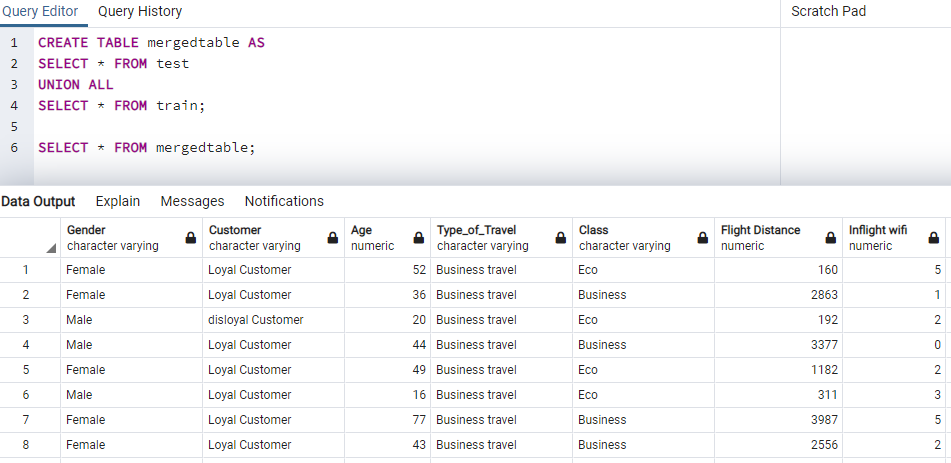
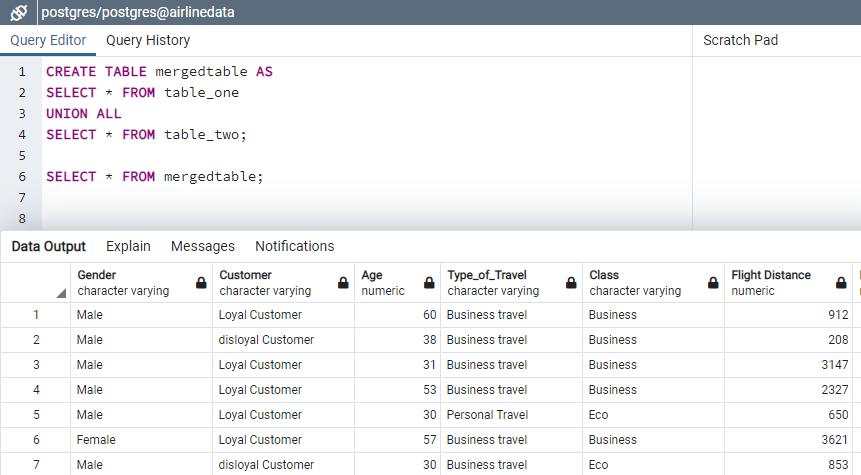
commit on "Sungil"

Changed region(s): [[0.0, 0.3629, 1.0, 0.9978], [0.0, 0.0, 1.0, 0.3326], [0.3926, 0.9676, 0.4228, 0.9978]]

diff --git a/README.md b/README.md
@@ -11,11 +11,36 @@ Increasing customer satisfaction is a key element for modern businesses  because
 * It is know if a new customer can be satisfied or not, basing on his  personnal information such as : gender, age, type of travel ... ?
 * How we can improve the machine learning classification technique to understand the key features that correlate to the variable which is being predicted.
 
-## Role : X Role
+## Role : 
+**In week 1: X Role**
+
 The X role will focus on the technology side of the project and provide which tools and what moduls are the best fit for the team project? All of the technology components play a large part in project efficacy, so knowing them beforehand helps smooth the workflow. The details of technologe we will use is issustrated in the following section.
 
 ## Technology we used
 The detail technology we used is in the link
 ![technology.md](technology.md)
 
+**In week 2: CIRCLE Role**
 
+ We used Amazon simple stoage service (S3) to store two csv files for airplane service satification data. We then used Spark in Google Colab to preprocess, clean the data and upload data to postgresql. This SQL databae is linked relational database (RDS) on the cloud Amazon Web Services (AWS).
+ Herein we unioned two tables using pgadmin4 and use the merged file to run a machine learning program, SciKitLearn, in Pandas. 
+ The sql quary file to union two tables is displayed in the following link.
+
+https://github.com/Subodh2044/Final_Project/blob/Week2/Database/union_and_createtable.sql
+
+## Data source: US Airline passenger satisfaction survey
+Source : https://www.kaggle.com/teejmahal20/airline-passenger-satisfaction
+
+**Data process diagram**
+
+![Data_Process](images/dataprocess.png)
+
+*Union two tables using pgAdmin4 **
+
+![Data_Process](images/merge_and_createtable.png)
+
+**Data correlation table using seabone heatmap plot**
+
+![Data_Process](images/correlation_table.png)
+
+Plot shows that "Gender" and "Gate_location" are not relating to the "satisfaction". We can delete the "Gender" and "Gate_location" for ML.

diff --git a/technology.md b/technology.md
@@ -36,22 +36,22 @@ Common data types include numerical (such as height) and categorical (such as a 
 
 ## Common regression predictive modeling with different input and output variables
 
-1. Numerical Input, Numerical Output
+**1. Numerical Input, Numerical Output**
 
 * Pearson’s correlation coefficient (linear)
 * Spearman’s rank coefficient (nonlinear)
 
-2. Numerical Input, Categorical Output
+**2. Numerical Input, Categorical Output**
 
 * ANOVA correlation coefficient (linear)
 * Kendall’s rank coefficient (nonlinear)
 
-3. Categorical Input, Numerical Output
+**3. Categorical Input, Numerical Output**
 
 * ANOVA correlation coefficient (linear)
 * Kendall’s rank coefficient (nonlinear)
 
-4. Categorical Input, Categorical Output
+**4. Categorical Input, Categorical Output**
 
 * Chi-Squared test (contingency tables)
 * Mutual information (information gain) from the field of information theory
